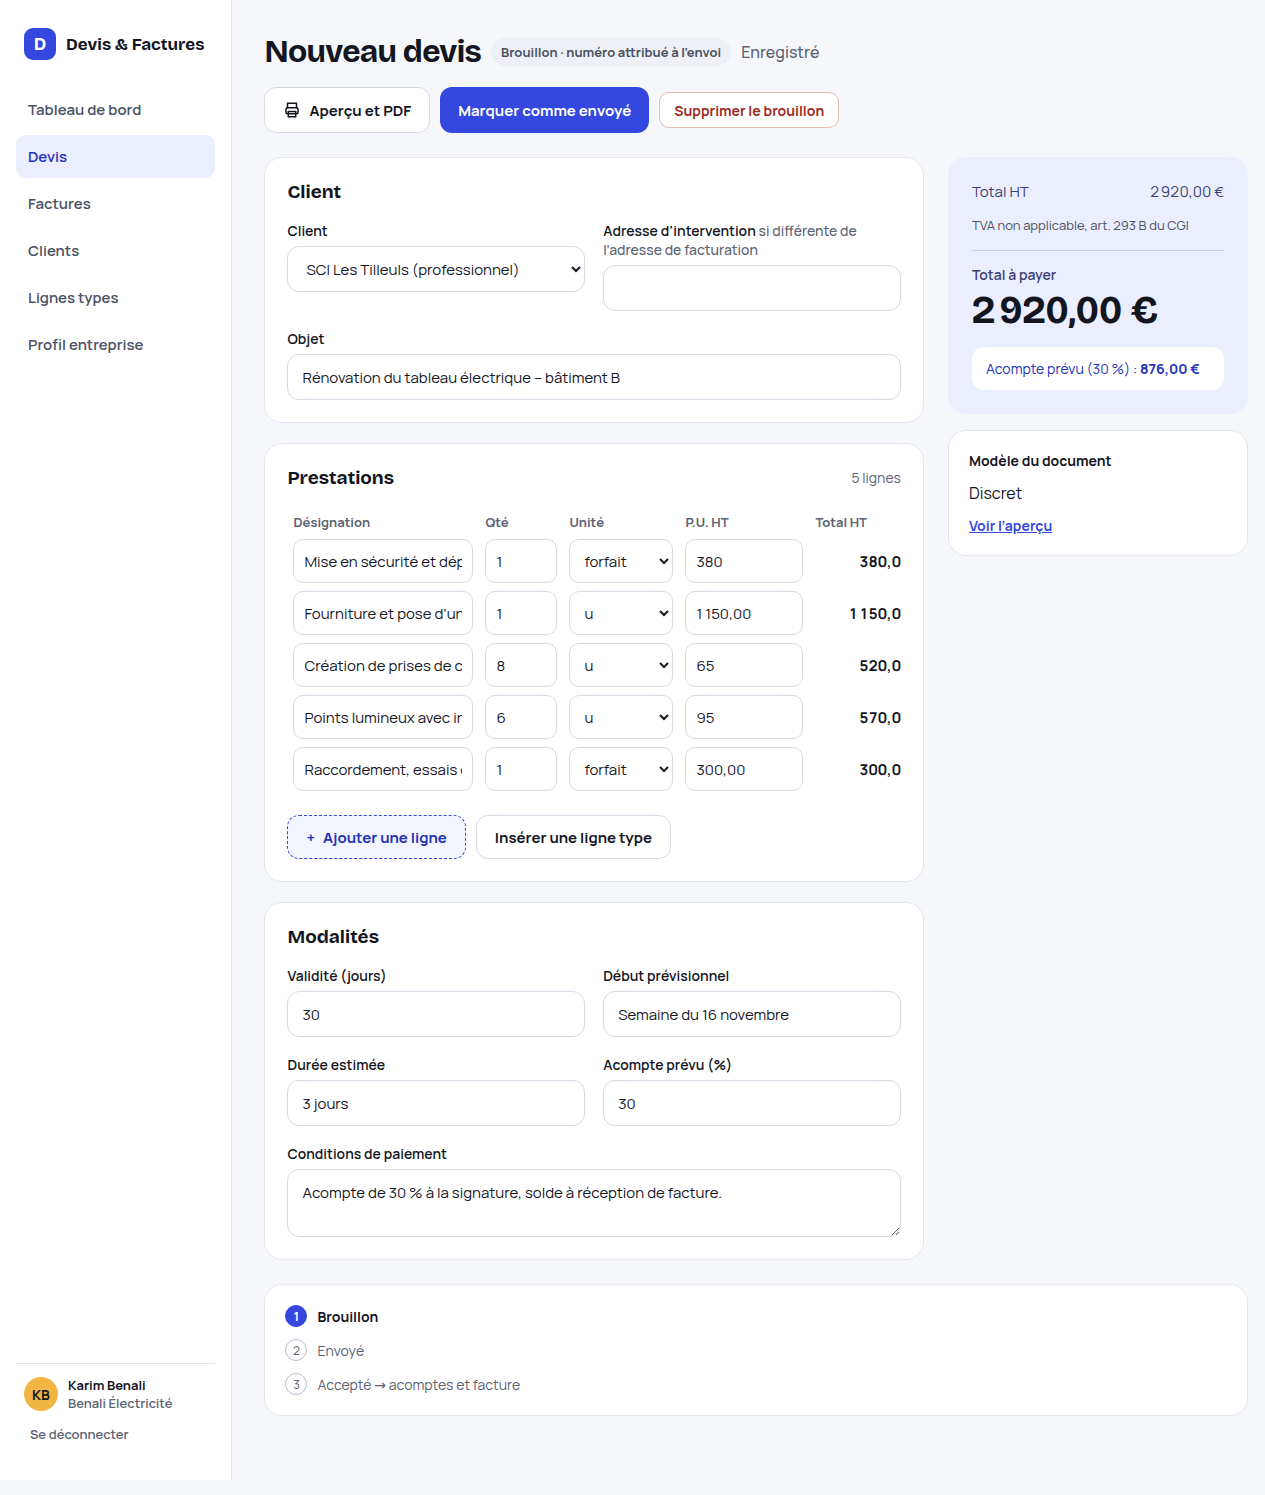
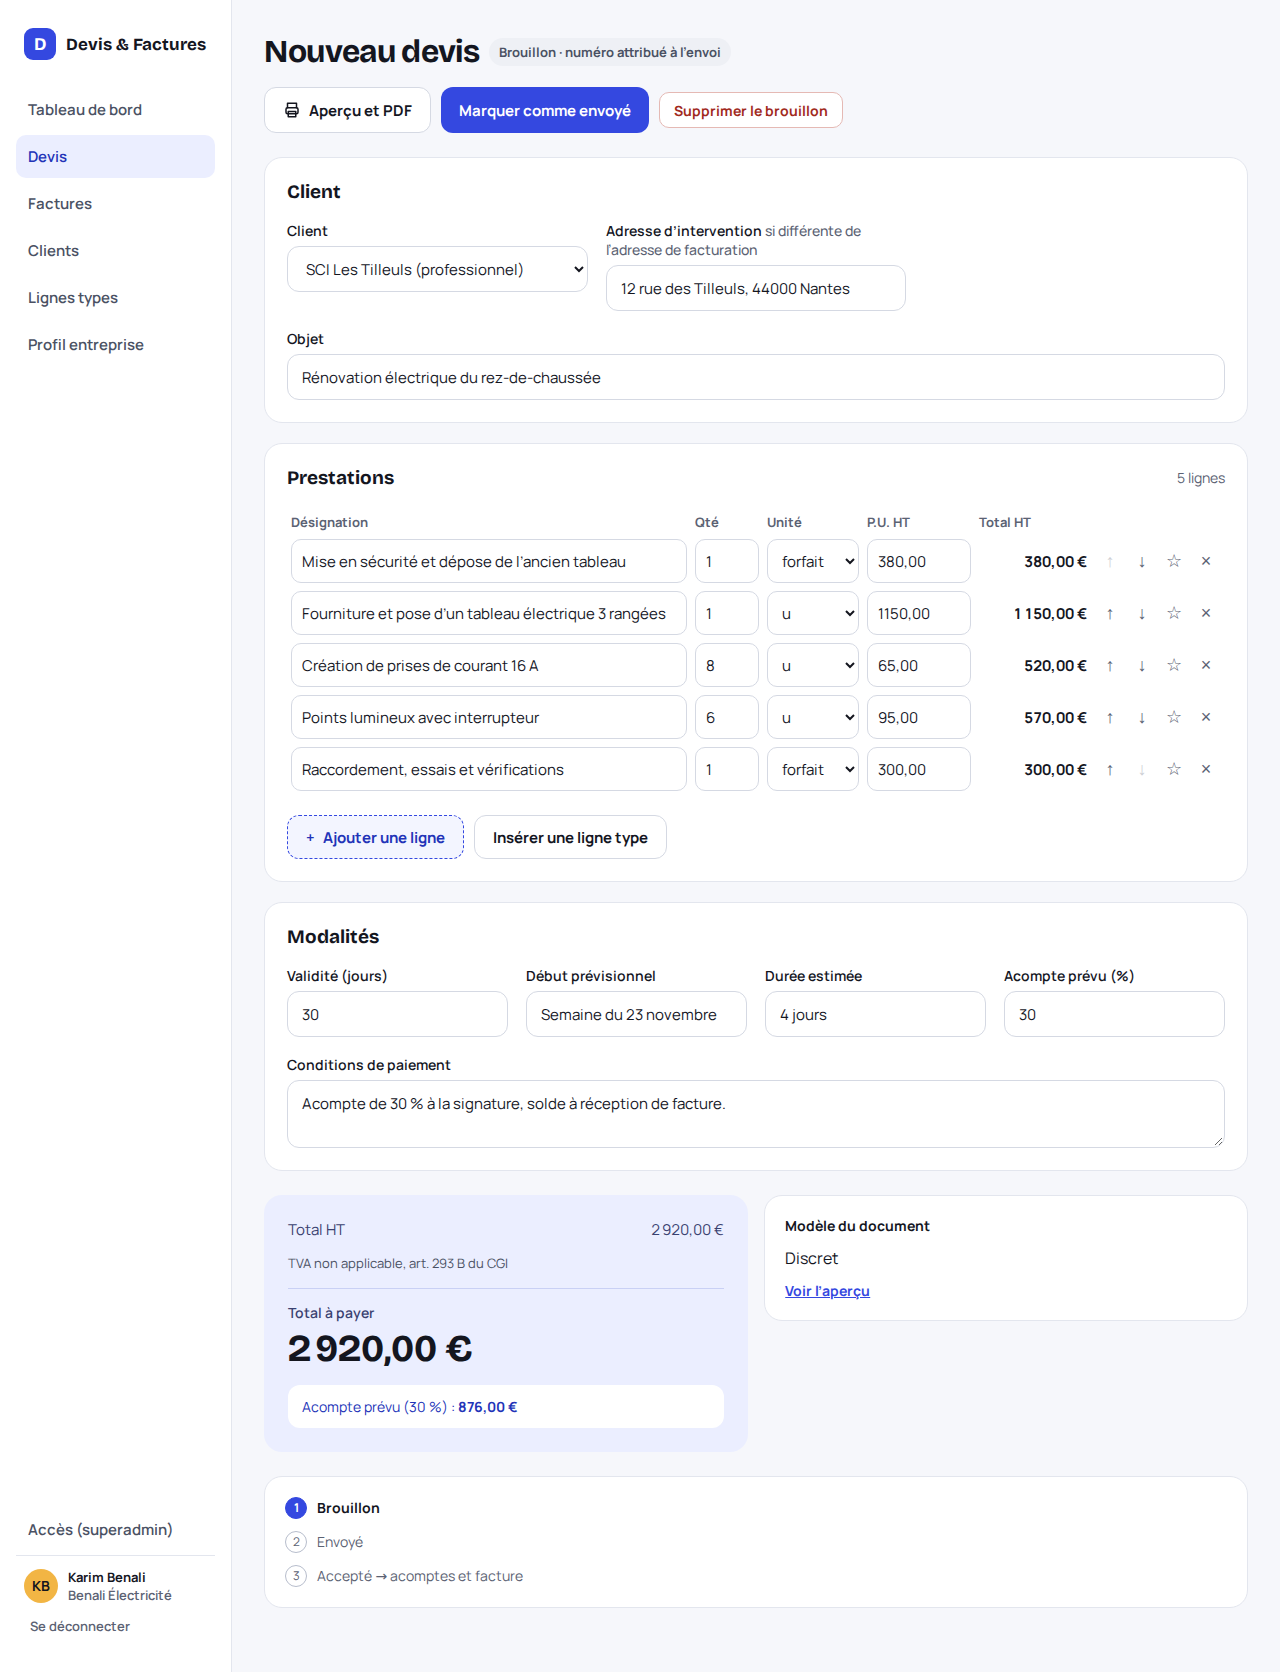
docs: vérification locale, impression sur une page, éditeur à 1280/1440 px, tests Worker intermittents

diff --git a/docs/verification-locale.md b/docs/verification-locale.md
@@ -7,6 +7,7 @@ Date : 3 novembre 2026. Branche `feat/v1`. Rien n'est déployé.
 - Serveur de développement Vite + Worker lancé sur `http://localhost:5180` avec une D1 locale **neuve** (migrations `0001_auth` et `0002_core` appliquées sur un état vide), `BETTER_AUTH_URL` réglé sur cette adresse. Le serveur et sa configuration temporaire ont été supprimés à la fin.
 - Connexion sans Google grâce à `node scripts/dev-session.mjs <email>` : le script crée l'utilisateur et une session de 7 jours dans la D1 **locale**, puis affiche le cookie `better-auth.session_token` signé avec le `BETTER_AUTH_SECRET` de `.dev.vars`. Il refuse de tourner si `BETTER_AUTH_URL` n'est pas une adresse localhost (vérifié : « refus : BETTER_AUTH_URL (https://devis.example.com) n'est pas une adresse localhost », code de sortie 1). Avec le cookie, `GET /api/me` répond 200 ; sans cookie, 401.
 - Navigateur Chromium piloté par Playwright, viewport 1280 × 800. Les aperçus d'impression sont produits par le moteur d'impression de Chromium (PDF A4, sans en-têtes ni pieds de page), puis convertis en PNG page par page.
+- Suite de la vérification (corrections n° 6 à 8) : même méthode, sur une nouvelle D1 locale neuve et avec le superadmin seul. Captures concernées : 08, 19 (désormais liée), 20 à 32. Les aperçus d'impression sont produits par `page.pdf()` de Chromium (Playwright), après `emulateMedia('print')`, puis convertis en PNG avec `pdftoppm`.
 - Comptes : superadmin `antogouvrillon@gmail.com`, utilisateur invité `karim@example.test`, deuxième utilisateur `lea@example.test`, adresse non invitée `intrus@example.test`.
 
 ## Résultat point par point
@@ -17,10 +18,10 @@ Date : 3 novembre 2026. Branche `feat/v1`. Rien n'est déployé.
 | 2 | Superadmin : autoriser `karim@example.test`, « jamais connecté », adresse non invitée | ok ([accès](verification/02-admin-acces.png), [accès sur invitation](verification/03-acces-refuse.png)) |
 | 3 | Karim : choix du modèle → profil avec logo → tableau de bord vide | ok après correction n° 2 ([modèle](verification/04-choix-modele.png), [profil](verification/05-profil.png), [tableau de bord](verification/06-tableau-de-bord-vide.png)) |
 | 4 | Client professionnel avec SIREN, client particulier, deux lignes types | ok ([clients](verification/07-clients.png)) |
-| 5 | Devis de la maquette, ligne type, rechargement, envoi, acceptation | ok ([édition](verification/08-devis-edition.png), [envoyé](verification/09-devis-envoye.png), [accepté](verification/10-devis-accepte.png)) |
+| 5 | Devis de la maquette, ligne type, rechargement, envoi, acceptation | ok après correction n° 7 ([édition à 1280 px](verification/08-devis-edition.png), [à 1440 px](verification/08-devis-edition-1440.png), [liste des devis](verification/19-devis.png), [envoyé](verification/09-devis-envoye.png), [accepté](verification/10-devis-accepte.png)) |
 | 6 | Acompte, solde, avoir, nouveau solde | ok après correction n° 4 ([facturation](verification/11-facturation.png), [solde en brouillon](verification/12-facture-solde-brouillon.png), [après l'avoir](verification/13-facturation-apres-avoir.png)) |
 | 7 | Facture sans devis pour le particulier : pas de mention des 40 € | ok après correction n° 3 ([brouillon](verification/14-facture-directe-brouillon.png)) |
-| 8 | Aperçu d'impression dans les 3 modèles, devis de 40 lignes | ok après correction n° 5 ; mise en page sur 2 pages à trancher (voir « Décisions à prendre ») |
+| 8 | Aperçu d'impression dans les 3 modèles, devis de 40 lignes | ok après corrections n° 5 et 6 : chaque document de 5 lignes tient sur une page A4 |
 | 9 | Tableau de bord cohérent | ok ([capture](verification/15-tableau-de-bord.png)) |
 | 10 | Deuxième utilisateur : aucune donnée de Karim, même par l'adresse | ok ([document introuvable](verification/17-autre-utilisateur-facture-introuvable.png)) |
 | 11 | Console du navigateur | ok : aucune erreur JavaScript |
@@ -53,7 +54,18 @@ Choix du modèle « Discret » → « Votre entreprise » : logo PNG importé (a
 
 - « + Nouveau devis » crée un brouillon avec 5 lignes vides. Quatre lignes de la maquette ont été saisies, dont le prix `1 150,00`, puis la ligne type « Raccordement… » a été insérée dans la 5ᵉ ligne vide : total **2 920,00 €**, acompte prévu 30 % = **876,00 €**.
 - Rechargement de la page après l'enregistrement automatique : client, objet, les 5 lignes, modalités et acompte prévu sont tous conservés.
+- La liste des devis montre le brouillon et les devis acceptés avec leur statut ([capture](verification/19-devis.png)).
 - « Marquer comme envoyé » → **D-2026-001**, « Envoyé ». « Marquer comme accepté » → contenu figé (« Le contenu de ce devis est figé depuis son acceptation »), actions « Facturer » et « Dupliquer ».
+
+**Anomalie n° 7, corrigée** : dans l'éditeur de devis, à 1265 px de large, la colonne « Total HT » était tronquée (« 380,0 »), les boutons de ligne (↑ ↓ ☆ ×) étaient hors champ et la désignation très étroite : le tableau des lignes (820 px minimum) ne tenait pas à côté du récapitulatif. Correction : colonnes et boutons de ligne resserrés (tableau de 680 px minimum) et, dans l'éditeur de devis, le récapitulatif passe sous le formulaire, ses deux blocs côte à côte, dès que la colonne principale ferait moins de 760 px (fenêtre de moins de 1380 px environ). Mesures dans Chromium, sans défilement horizontal du tableau ni de la page, totaux complets et 4 boutons visibles :
+
+| Largeur | Devis brouillon | Facture de solde brouillon |
+|---|---|---|
+| 1280 px | récapitulatif sous le formulaire, champ désignation 396 px ([capture](verification/08-devis-edition.png)) | champ désignation 396 px ([capture](verification/32-facture-brouillon-1280.png)) |
+| 1440 px | récapitulatif à droite comme dans la maquette, champ désignation 208 px ([capture](verification/08-devis-edition-1440.png)) | champ désignation 532 px ([capture](verification/32-facture-brouillon-1440.png)) |
+| 900 px (tablette) | défilement horizontal limité au tableau des lignes | idem |
+
+Les captures 08 et 32 ont été prises après la correction, avec un autre jeu de données que le reste du parcours (objet « Rénovation électrique du rez-de-chaussée »).
 
 ### 6. Facturation
 
@@ -77,13 +89,25 @@ Les trois modèles, chacun avec un devis, une facture de solde avec déduction d
 
 | Modèle | Devis | Facture de solde | Avoir |
 |---|---|---|---|
-| Discret (modele-02) | [p. 1](verification/20-discret-devis-1.png) | [p. 1](verification/21-discret-facture-solde-1.png), [p. 2](verification/21-discret-facture-solde-2.png) | [p. 1](verification/22-discret-avoir-1.png), [p. 2](verification/22-discret-avoir-2.png) |
-| Intemporel (modele-01) | [p. 1](verification/23-intemporel-devis-1.png) | [p. 1](verification/24-intemporel-facture-solde-1.png), [p. 2](verification/24-intemporel-facture-solde-2.png) | [p. 1](verification/25-intemporel-avoir-1.png), [p. 2](verification/25-intemporel-avoir-2.png) |
-| Raffiné (modele-03) | [p. 1](verification/26-raffine-devis-1.png), [p. 2](verification/26-raffine-devis-2.png) | [p. 1](verification/27-raffine-facture-solde-1.png), [p. 2](verification/27-raffine-facture-solde-2.png) | [p. 1](verification/28-raffine-avoir-1.png), [p. 2](verification/28-raffine-avoir-2.png) |
+| Discret (modele-02) | [1 page](verification/20-discret-devis-1.png) | [1 page](verification/21-discret-facture-solde-1.png) | [1 page](verification/22-discret-avoir-1.png) |
+| Intemporel (modele-01) | [1 page](verification/23-intemporel-devis-1.png) | [1 page](verification/24-intemporel-facture-solde-1.png) | [1 page](verification/25-intemporel-avoir-1.png) |
+| Raffiné (modele-03) | [1 page](verification/26-raffine-devis-1.png) | [1 page](verification/27-raffine-facture-solde-1.png) | [1 page](verification/28-raffine-avoir-1.png) |
 
 Le titre de l'onglet, qui devient le nom proposé pour le PDF, vaut par exemple « F-2026-003 – SCI Les Tilleuls », ou « Devis (brouillon) – SCI Les Tilleuls » pour un brouillon.
 
-Devis de 40 lignes, dont 6 désignations longues sur 4 lignes : 3 pages en Discret et en Intemporel, 4 en Raffiné. Sur chaque page de lignes, l'en-tête du tableau est répété et aucune ligne n'est coupée : chaque « Ligne n » apparaît sur une seule page, d'après une vérification du texte du PDF page par page. Totaux, modalités et bon pour accord restent groupés. Captures : Discret [p. 1](verification/30-devis-40-lignes-discret-1.png), [p. 2](verification/30-devis-40-lignes-discret-2.png), [p. 3](verification/30-devis-40-lignes-discret-3.png) ; Raffiné [p. 2](verification/31-devis-40-lignes-raffine-2.png), [p. 3](verification/31-devis-40-lignes-raffine-3.png).
+Devis de 40 lignes, dont 6 désignations longues sur 4 lignes : 3 pages dans les trois modèles après la correction n° 6 (4 avant, avec le jeu de données décrit plus bas). Sur chaque page de lignes, l'en-tête du tableau est répété et aucune ligne n'est coupée : chaque « Ligne n » apparaît sur une seule page, d'après une vérification du texte du PDF page par page. Totaux, modalités et bon pour accord restent groupés. Captures : Discret [p. 1](verification/30-devis-40-lignes-discret-1.png), [p. 2](verification/30-devis-40-lignes-discret-2.png), [p. 3](verification/30-devis-40-lignes-discret-3.png) ; Raffiné [p. 2](verification/31-devis-40-lignes-raffine-2.png), [p. 3](verification/31-devis-40-lignes-raffine-3.png).
+
+**Correction n° 6 : une page A4 par document de 5 lignes.** Avant, le bloc « Modalités », qui ne doit pas être coupé, partait seul en page 2. Les modèles `v1` n'ayant encore produit aucun document réel, ils ont été retouchés en place : marges `@page` de 10 × 12 mm (au lieu de 12 × 14), texte à 14 px (15 avant) et 12 px pour les modalités, espacements, remplissages et interlignes resserrés ; sur une facture ou un avoir, sans bon pour accord, les modalités prennent toute la largeur. Discret : numéro et date restent sur une ligne. Raffiné : logo limité à 44 px de haut. Couleurs, polices et disposition des maquettes sont inchangées. Les règles de pagination ne bougent pas.
+
+Preuve : PDF A4 produits par Chromium (`page.pdf()` après `emulateMedia('print')`, sans en-têtes ni pieds de page, marges de la feuille de style), nombre de pages lu avec `pdfinfo`. Jeu de données : profil avec logo PNG, client professionnel avec adresse d'intervention, 5 lignes de la maquette, modalités, assurance ; facture de solde avec un acompte déduit et toutes les mentions (prestation, échéance, IBAN, pénalités, indemnité de 40 €, escompte) ; avoir de cette facture (deux références).
+
+| Modèle | Devis | Facture de solde | Avoir | Devis de 40 lignes |
+|---|---|---|---|---|
+| Discret | 2 → **1** | 2 → **1** | 2 → **1** | 4 → 3 |
+| Intemporel | 1 → **1** | 2 → **1** | 2 → **1** | 4 → 3 |
+| Raffiné | 2 → **1** | 2 → **1** | 2 → **1** | 4 → 3 |
+
+Hauteur occupée après correction, pour 1 047 px utiles : de 836 px (devis Intemporel) à 1 025 px (avoir Raffiné). Avec ce jeu de données, le devis Discret faisait aussi 2 pages avant correction, à cause du numéro et de la date qui passaient sur deux lignes. Les captures 20 à 31 ont été régénérées.
 
 **Anomalie n° 5, corrigée** : à l'impression avec « Graphiques d'arrière-plan », la fin de la dernière page était remplie du fond gris de l'application. Selon l'ordre de chargement des feuilles de style, la règle `body` de `base.css` l'emportait sur la règle d'impression. Correction : la règle d'impression est plus spécifique (`html body`) et la page d'aperçu n'impose plus de hauteur minimale à l'impression. Seule l'enveloppe de la page est modifiée, pas les modèles (commit `0e5f245`). Les 9 aperçus ont été régénérés : fond blanc.
 
@@ -114,11 +138,27 @@ Aucune erreur JavaScript ni avertissement pendant tout le parcours. Les seules l
 | 3 | Facture : type de client absent de la liste | libellé commun `CLIENT_TYPE_LABEL` | `InvoicePage.test.tsx` | `46edf71` |
 | 4 | Liste des factures : avoirs du jour en fin de liste | tri secondaire sur la date de création | `credit-notes.test.ts` | `6cccc42` |
 | 5 | Impression : fond gris sous le document | règle d'impression plus spécifique | visuel (PDF) | `0e5f245` |
+| 6 | Impression : un document de 5 lignes sur 2 pages | modèles `v1` resserrés (marges, tailles, espacements) | nombre de pages des PDF | `4fa3683` |
+| 7 | Éditeur de lignes tronqué à 1265 px | colonnes resserrées, récapitulatif sous le formulaire sous 760 px | mesures et captures à 1280 et 1440 px | `08434b8` |
+| 8 | Tests Worker qui échouent parfois | délai par test porté à 30 s (voir ci-dessous) | 20 + 5 + 3 exécutions vertes | `3048bbf` |
+
+### Tests Worker : échecs intermittents
+
+Lors de la tâche 25, 3 tests Worker avaient échoué une fois. Exécutions faites pour l'enquête :
+
+- `npx vitest run -c vitest.worker.config.ts test/worker/quotes.test.ts` : 20 exécutions, 20 vertes (13/13) ;
+- suite Worker complète : 5 exécutions, 5 vertes (114/114) ;
+- suite Worker complète, 14 exécutions de plus avant correction, dont 9 avec relevé des durées par test, 2 sous charge CPU artificielle (16 puis 48 processus), 1 avec écritures disque continues et 2 pendant un build et la génération des PDF : **2 ont échoué** (3 tests, puis 1 test), toutes deux sans charge particulière.
+
+Cause : dans ces deux exécutions, tous les tests étaient 3 à 4 fois plus lents d'un bout à l'autre (somme des durées : 93 à 113 s au lieu de 26 à 28 s). Les tests en échec sont exactement ceux qui ont dépassé 5 000 ms, le délai par défaut de Vitest : tableau de bord (7 014 et 6 609 ms, 1,7 à 1,8 s d'ordinaire), `invoices-drafts` « limite les champs modifiables… » (6 347 ms), `quotes` « liste les devis… » (6 246 ms). L'erreur est celle du délai dépassé (`Test timed out in 5000ms`). Ce n'est ni un état D1 partagé, ni le nettoyage `beforeEach`, ni l'horloge : chaque test passe dès qu'on lui laisse le temps. Avec `--testTimeout=1500`, le même échec se reproduit à coup sûr sur le test du tableau de bord. La lenteur ponctuelle vient de l'environnement : 16 fichiers lancés en même temps, chacun avec son runtime workerd et sa D1. Elle n'a pas été reproduite à la demande, ni avec 48 processus qui saturent le CPU ni avec des écritures disque continues.
+
+Correction : `testTimeout: 30_000` dans `vitest.worker.config.ts`, soit 16 fois la durée normale du test le plus long. Après correction : `npm test` 3 fois de suite, chaque fois avec le serveur de développement lancé sur un autre port : 3 fois vert (156/156 et 114/114).
 
 ## Décisions à prendre
 
-1. **Un document de 5 lignes s'imprime sur 2 pages.** C'est le cas dans les trois modèles pour une facture ou un avoir, et en Raffiné pour un devis. Le bloc « Modalités » (mentions légales comprises) part seul en page 2, car il est trop haut pour la place restante et ne doit pas être coupé. Mesures faites dans le navigateur en ajoutant des règles d'impression plus compactes : texte à 13 px au lieu de 15, interlignes et espacements réduits, bloc « Modalités » sur toute la largeur quand il n'y a pas de bon pour accord. La facture tient alors sur 1 page en Discret et en Intemporel, 2 en Raffiné, et le devis Raffiné tient sur 1 page. Changer l'apparence des modèles touche la règle « un modèle publié n'est jamais modifié en place ». Comme rien n'est encore publié, une retouche des `v1` reste possible avant le déploiement ; sinon il faudra des `v2`. Choix à faire : accepter 2 pages, ou compacter l'impression (et dans ce cas, valider la nouvelle apparence).
-2. Point mineur, non corrigé : à l'écran, l'espace fin insécable des milliers (`2 044,00 €`, produit par `Intl.NumberFormat`) est presque invisible dans la police Manrope en gras (« 2044,00 € » sur l'écran Facturation). C'est conforme à la contrainte de format, mais on peut préférer un espace insécable normal à l'affichage.
+1. Point mineur, non corrigé : à l'écran, l'espace fin insécable des milliers (`2 044,00 €`, produit par `Intl.NumberFormat`) est presque invisible dans la police Manrope en gras (« 2044,00 € » sur l'écran Facturation). C'est conforme à la contrainte de format, mais on peut préférer un espace insécable normal à l'affichage.
+
+La question « accepter 2 pages ou compacter l'impression » est tranchée : l'impression a été compactée (correction n° 6), et chaque document de 5 lignes tient sur une page A4 dans les trois modèles.
 
 ## Essayer vous-même
 
